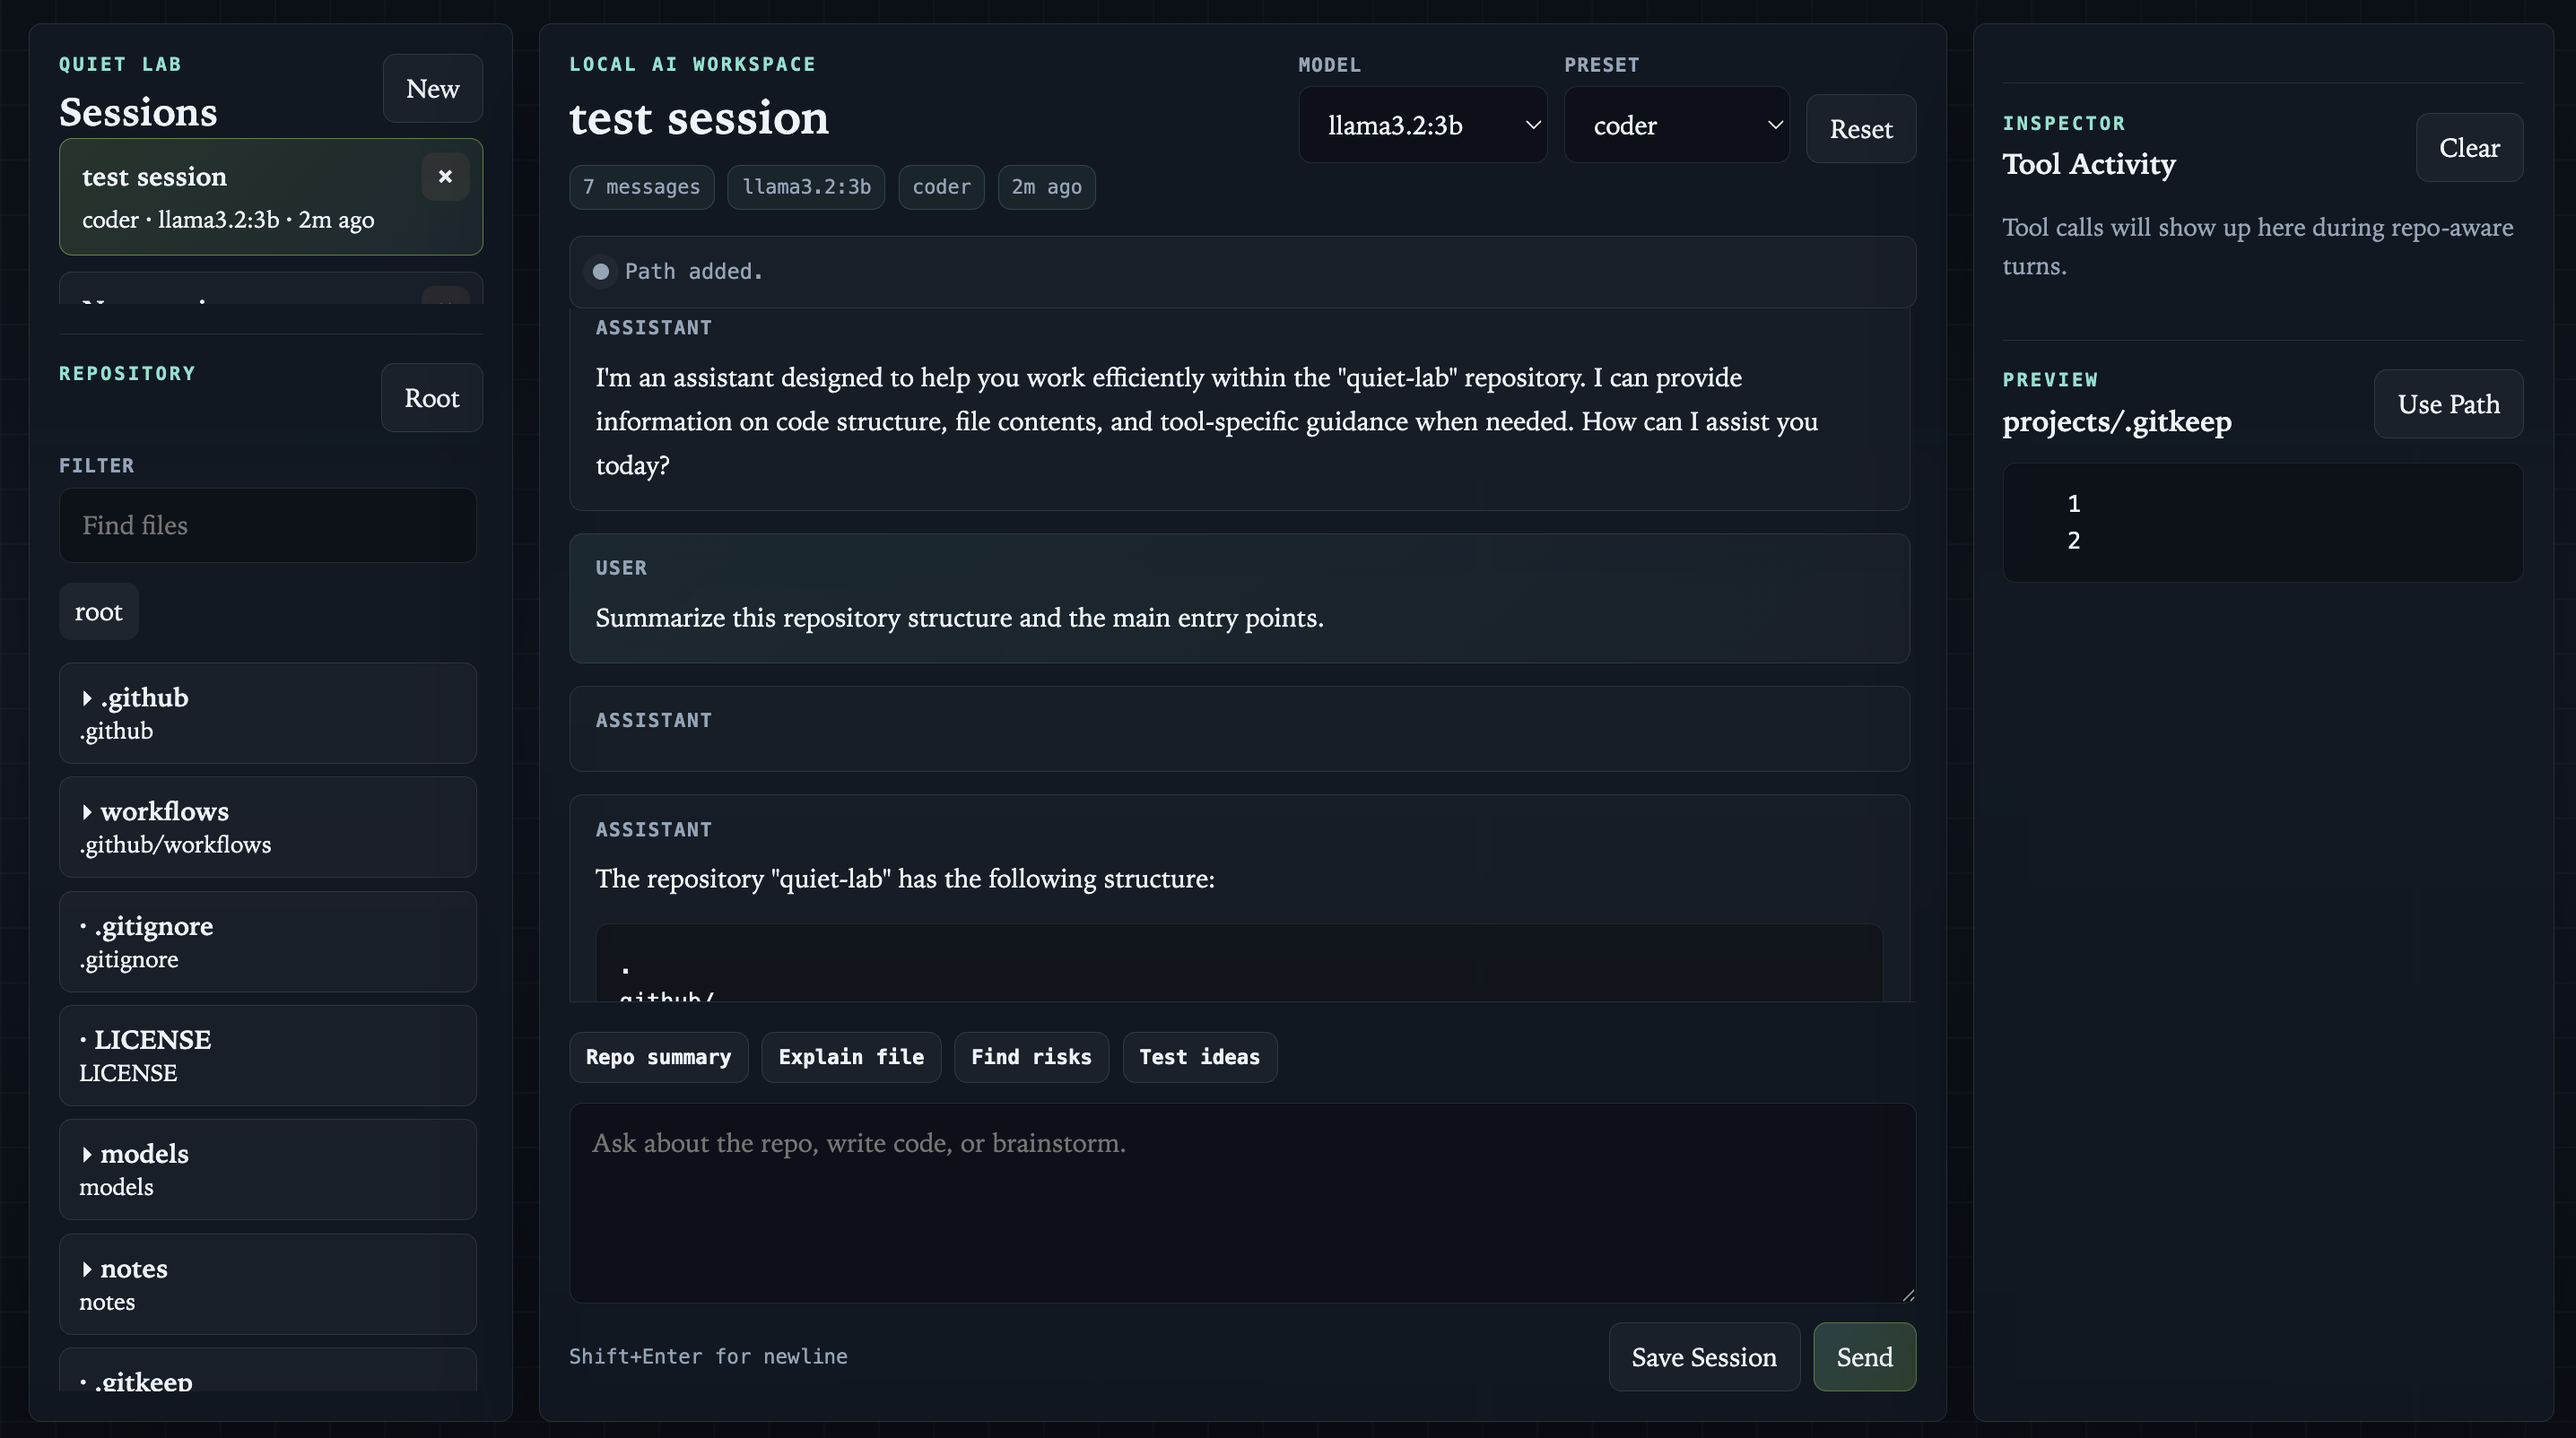
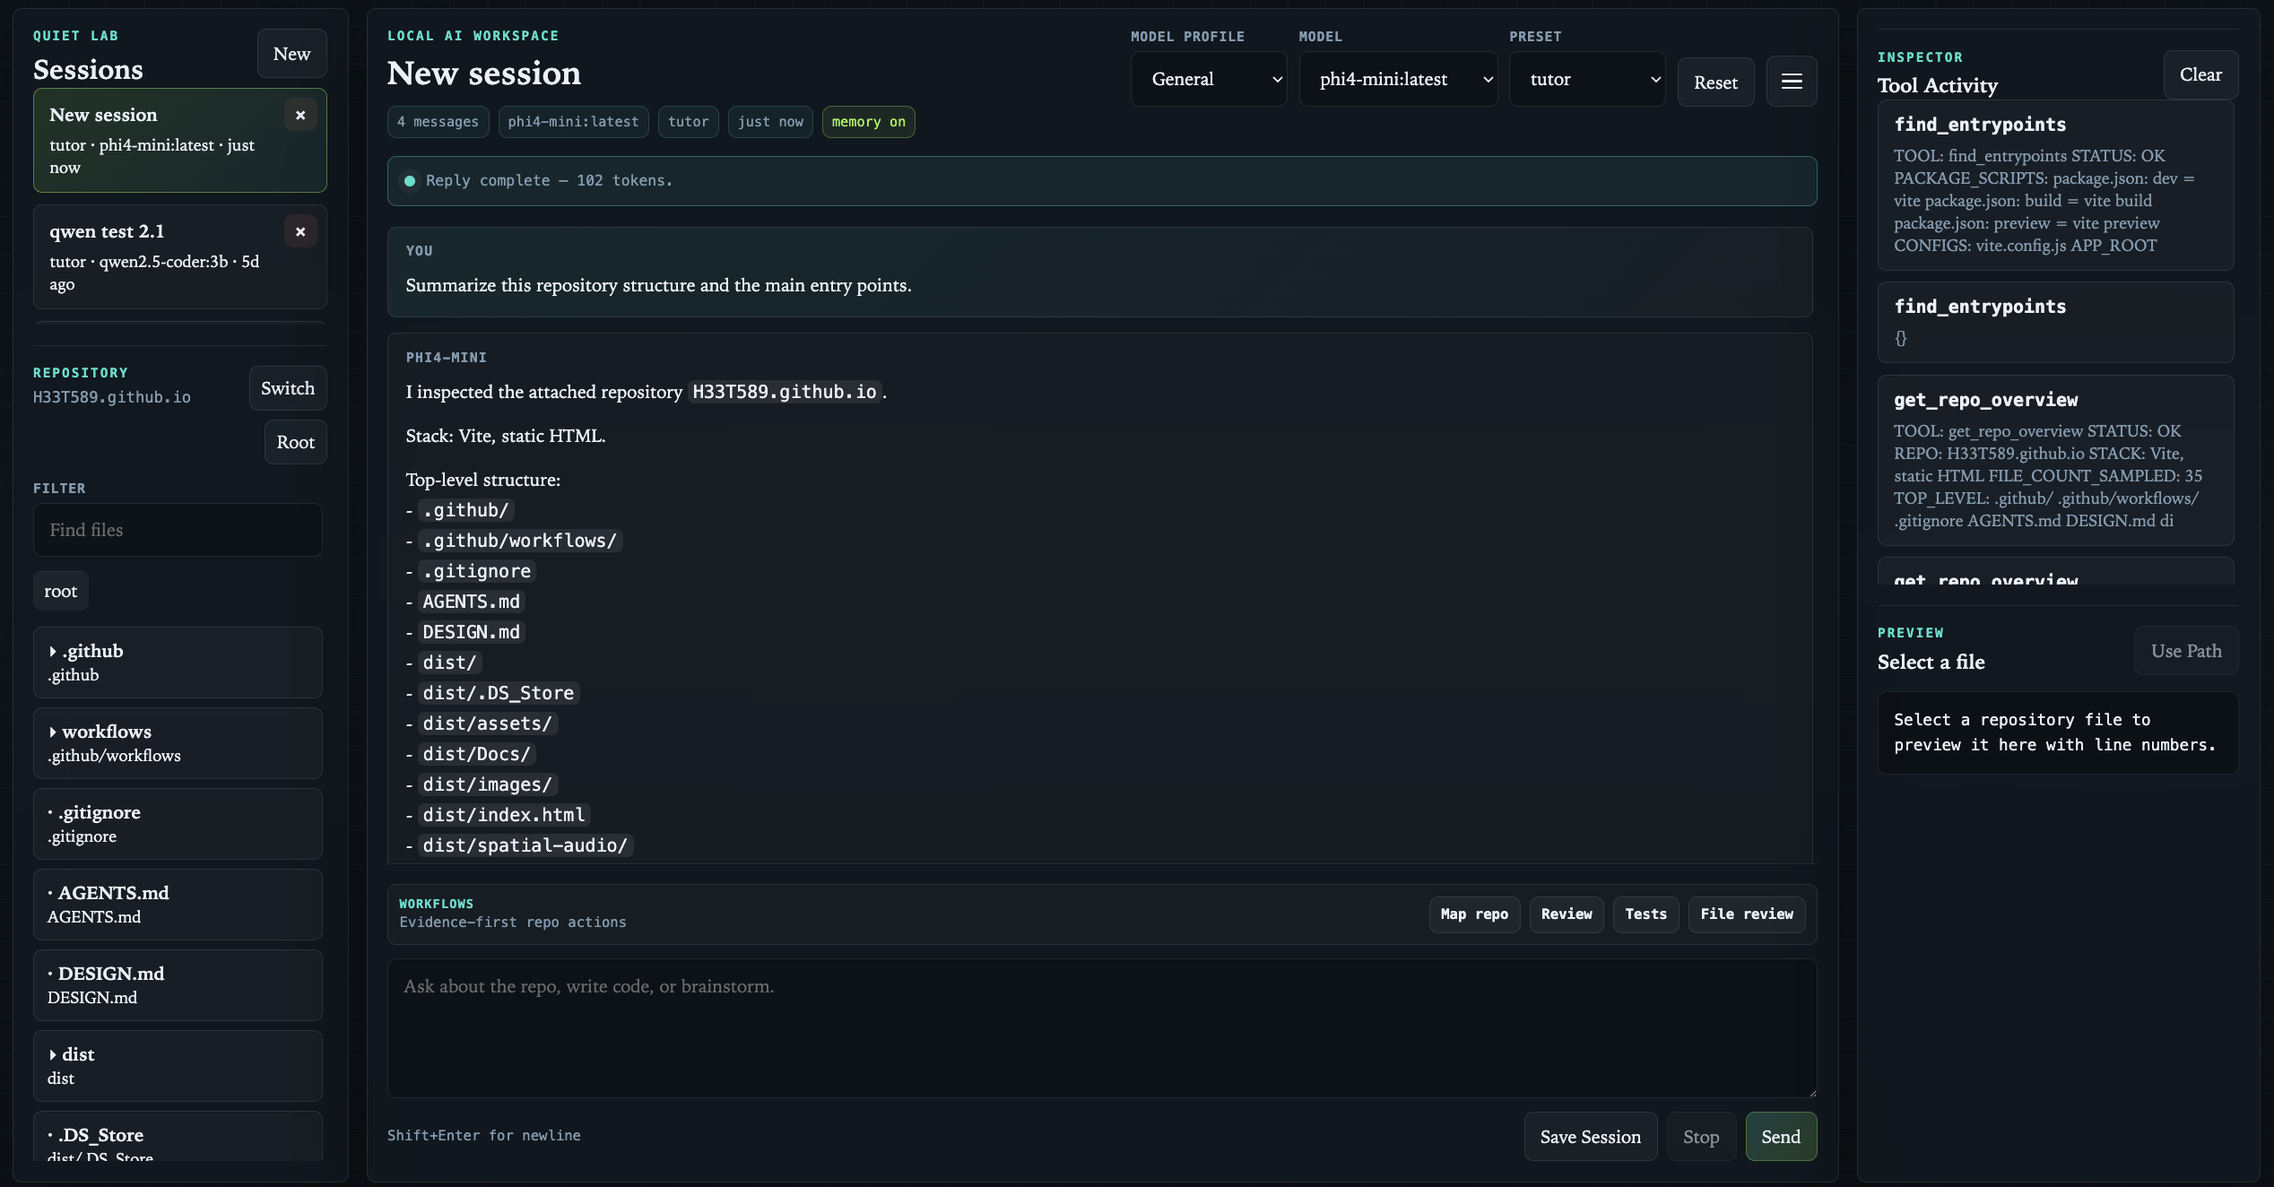
Update Quiet Lab project description and replace screenshot

diff --git a/src/data/site.js b/src/data/site.js
@@ -156,7 +156,7 @@ export const site = {
         alt: 'quiet-lab local language model workspace screenshot.',
       },
       description:
-        'A personal lab for exploring local language models and lightweight AI tooling. Built around Ollama, it combines prompt presets, local session history, streamed chat, and read-only repository inspection tools into a small workspace for experimenting with model behavior, grounded answers, and codebase-aware assistance.',
+        'I built Quiet Lab as a local-first AI workspace on top of Ollama for testing practical LLM workflows. I have added stronger project memory, safer attachable repository tooling, configurable tooling budgets, and better control over workspace context, along with more reliable streaming and session persistence so day-to-day experiments stay grounded and usable.',
       tech: ['Ollama', 'Node.js', 'Local LLMs', 'Prompt Presets', 'Repository Tools'],
       links: [
         {
